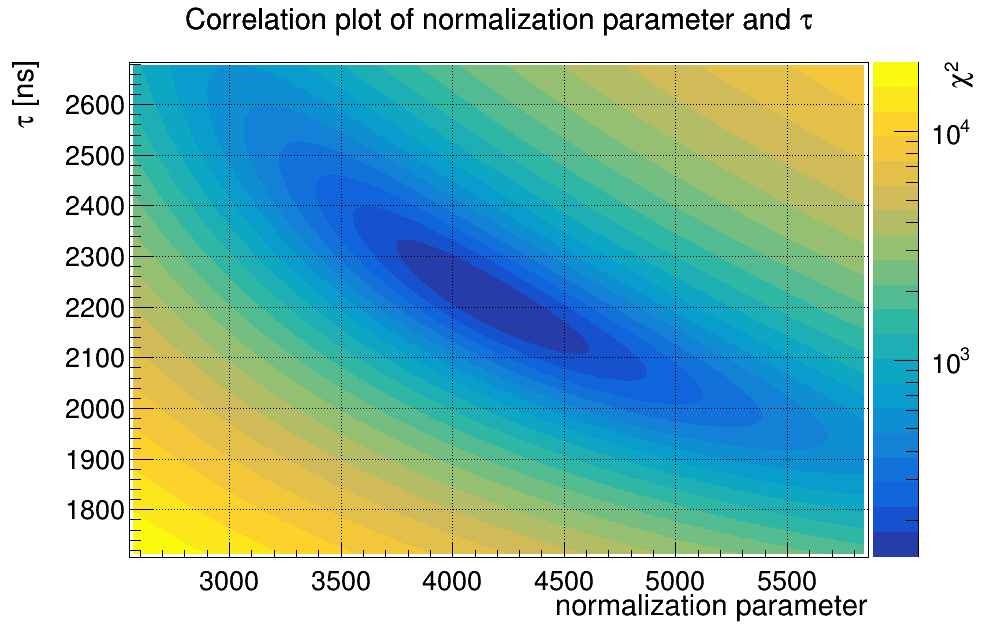
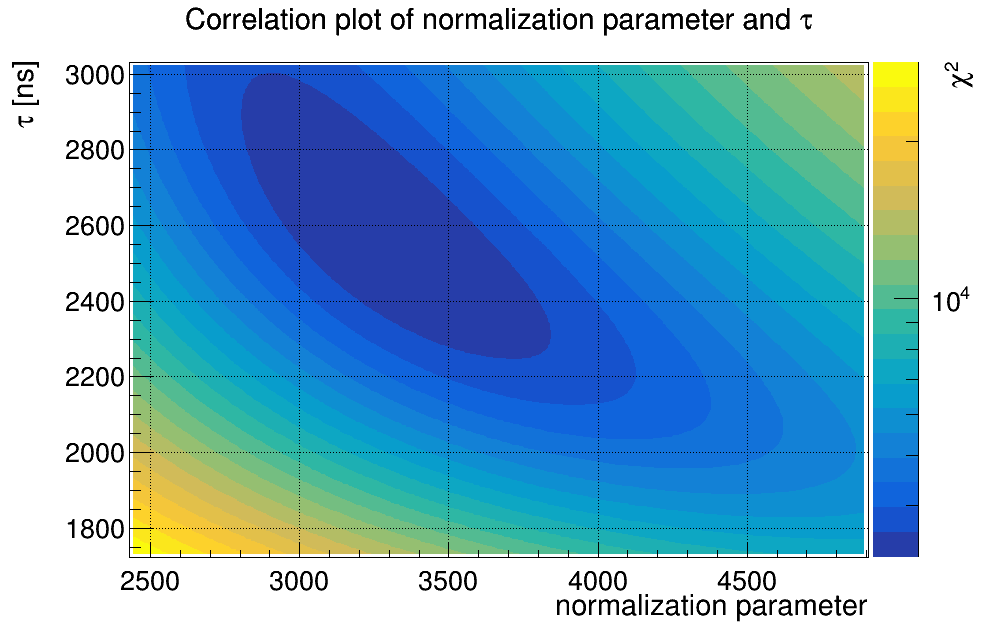
niente

diff --git a/analysis/muon_analysis/g-2/g-2_fit/g-2_fit.cc b/analysis/muon_analysis/g-2/g-2_fit/g-2_fit.cc
@@ -17,6 +17,7 @@
 #include <cstdlib>
 #include <fstream>
 #include <iostream>
+#include <math.h>
 #include <ostream>
 #include <sstream>
 #include <string>
@@ -38,10 +39,11 @@ Double_t f_fit(Double_t *x, Double_t *par)
 // ======= ANALYSIS FUNCTIONS ==========
 
 // physical quantities
-double e              = 1.602176634e-19;               // Coulomb
-double c              = 299792458;                     // m/s
-double muon_mass      = (105.6583755e6) * e / (c * c); // kg
-double magnetic_filed = 5.4e-3;                        // tesla
+double e                    = 1.602176634e-19;               // Coulomb
+double c                    = 299792458;                     // m/s
+double muon_mass            = (105.6583755e6) * e / (c * c); // kg
+double magnetic_filed       = 5.4e-3;                        // tesla
+double magnetic_filed_error = 0.1e-3;
 
 std::string G2_estimation(int bin_number_B, int dataset_initial = 0, int dataset_final = 0, int range_xmin = -1, int range_xmax = -1, int xmin_fit = -1, int xmax_fit = -1)
 {
@@ -73,7 +75,7 @@ std::string G2_estimation(int bin_number_B, int dataset_initial = 0, int dataset
   double bin_width_B = (range_xmax - range_xmin) * 1.0 / bin_B;
   TH1D  *h           = LoadData("./data", bin_B, range_xmin, range_xmax, dataset_initial, dataset_final);
   h->SetStats(kFALSE);
-  h->SetTitle("N(t)=c+N_{0}e^{-t/#tau} over dataset with B");
+  h->SetTitle("");
   h->GetXaxis()->SetTitle("time [ns]");
   h->GetYaxis()->SetTitle(GrUtil::HLabel(h, "ns").c_str());
   GrUtil::SetHTextSize(h);
@@ -114,7 +116,7 @@ std::string G2_estimation(int bin_number_B, int dataset_initial = 0, int dataset
   TH1D *h_res = GetResiduals(h, f_no_B, xmin_fit, xmax_fit);
   h_res->SetStats(kFALSE);
   h_res->GetXaxis()->SetTitle("time [ns]");
-  h_res->SetTitle("Residuals of the plot on the left");
+  h_res->SetTitle("");
   h_res->GetYaxis()->SetTitle(GrUtil::HLabel(h_res, "ns").c_str());
   h_res->GetXaxis()->SetTitleOffset(0.96);
   h_res->GetYaxis()->SetTitleOffset(1.06);
@@ -138,7 +140,7 @@ std::string G2_estimation(int bin_number_B, int dataset_initial = 0, int dataset
   gPad->SetGrid();
   gPad->SetLogy();
 
-  TH1D *h_cos = new TH1D("h_cos", "Fit data with B and N(t)=c+N_{0}e^{-t/#tau} [1+Acos(#omega_{a} t + #phi)]", bin_B, range_xmin, range_xmax);
+  TH1D *h_cos = new TH1D("h_cos", "", bin_B, range_xmin, range_xmax);
   h_cos->Add(h);
   h_cos->SetStats(kTRUE);
   h_cos->GetXaxis()->SetTitle("time [ns]");
@@ -165,7 +167,7 @@ std::string G2_estimation(int bin_number_B, int dataset_initial = 0, int dataset
   f_cos->SetParName(1, "N");
   f_cos->SetParName(2, "A");
   f_cos->SetParName(3, "#omega");
-  f_cos->SetParName(4, "#phi");
+  f_cos->SetParName(4, "#phi/#pi");
   f_cos->SetParName(5, "#tau [ns]");
 
   f_cos->SetParLimits(0, 2, 10);
@@ -183,6 +185,7 @@ std::string G2_estimation(int bin_number_B, int dataset_initial = 0, int dataset
   f_cos->SetParameter(4, 0);
 
   f_cos->FixParameter(5, life_time);
+  // f_cos->FixParameter(5, 2195);
 
   h_cos->Fit(f_cos, "LMR");
 
@@ -190,8 +193,8 @@ std::string G2_estimation(int bin_number_B, int dataset_initial = 0, int dataset
   gStyle->SetOptFit(1);
 
   TPaveStats *pv = (TPaveStats *)h_cos->GetListOfFunctions()->FindObject("stats");
-  pv->SetX1NDC(0.45);
-  pv->SetX2NDC(0.9);
+  pv->SetX1NDC(0.55);
+  pv->SetX2NDC(0.99);
   pv->SetY1NDC(0.55);
   pv->SetY2NDC(0.9);
   pv->Draw("SAME");
@@ -199,7 +202,7 @@ std::string G2_estimation(int bin_number_B, int dataset_initial = 0, int dataset
   c_cos->cd(2);
   gPad->SetGrid();
   TH1D *h_cos_res = GetResiduals(h_cos, f_cos, xmin_fit, xmax_fit);
-  h_cos_res->SetTitle("Residuals of the plot on the left");
+  h_cos_res->SetTitle("");
   h_cos_res->SetStats(kFALSE);
   h_cos_res->GetXaxis()->SetTitle("time [ns]");
   h_cos_res->GetYaxis()->SetTitle(GrUtil::HLabel(h_cos_res, "ns").c_str());
@@ -214,15 +217,16 @@ std::string G2_estimation(int bin_number_B, int dataset_initial = 0, int dataset
 
   c_cos->SaveAs("./g-2_fit/g-2_plot_fit.pdf");
   // ====== summary on obtained value =========
-  double omega_s       = f_cos->GetParameter(1) * 1e9; // 1/s
-  double omega_s_error = f_cos->GetParError(1) * 1e9;  // 1/s
+  double omega_s       = f_cos->GetParameter(3) * 1e9; // 1/s
+  double omega_s_error = f_cos->GetParError(3) * 1e9;  // 1/s
   double g_muon        = 2.0 * muon_mass * omega_s / (magnetic_filed * e);
+  double g_err         = g_muon * sqrt(pow(omega_s_error / omega_s, 2) + pow(magnetic_filed_error / magnetic_filed, 2));
   std::cout << " \n==== ANALYSIS RESULTS ====== " << std::endl;
   std::cout << "omega=" << omega_s << " s" << std::endl;
   std::cout << "muon mass=" << muon_mass << " kg" << std::endl;
   std::cout << "magnetic field=" << magnetic_filed << " T" << std::endl;
   std::cout << "electric charge=" << e << " C" << std::endl;
-  std::cout << "giromagnetic factor g: " << g_muon << std::endl;
+  std::cout << "giromagnetic factor g: " << g_muon << " +- " << g_err << std::endl;
 
   // string outout
   std::ostringstream output_string;

diff --git a/analysis/muon_analysis/muon_lifetime/src/muon_lifetime.cc b/analysis/muon_analysis/muon_lifetime/src/muon_lifetime.cc
@@ -69,7 +69,7 @@ Double_t chi_sqr(Double_t *val, Double_t *par)
   return sum;
 }
 
-void FitData(std::string filename, int xmin_fit = 2000, int xmax_fit = 16000, int total_bins = 75)
+TF1 *FitData(std::string filename, int xmin_fit = 2000, int xmax_fit = 16000, int total_bins = 75)
 {
   /*
   arguments explanation: filename, the path to the file that contains all the data
@@ -104,7 +104,7 @@ void FitData(std::string filename, int xmin_fit = 2000, int xmax_fit = 16000, in
   f->SetParNames("constant", "normalization", "lifetime [ns]");
   f->SetParameter(2, 2200);
   f->SetParLimits(0, 0, 200);
-  h->Fit(f, "RM");
+  h->Fit(f, "RMQ");
   h->Draw("E1");
 
   // graphics
@@ -146,7 +146,7 @@ void FitData(std::string filename, int xmin_fit = 2000, int xmax_fit = 16000, in
   c_chi->cd();
   c_chi->SetGrid();
   c_chi->SetLogz();
-  TF2 *f_chi = new TF2("f_chi", chi_sqr, f->GetParameter(1) - 20 * f->GetParError(1), f->GetParameter(1) + 20 * f->GetParError(1), f->GetParameter(2) - 20 * f->GetParError(2), f->GetParameter(2) + 20 * f->GetParError(2), 1);
+  TF2 *f_chi = new TF2("f_chi", chi_sqr, f->GetParameter(1) - 40 * f->GetParError(1), f->GetParameter(1) + 40 * f->GetParError(1), f->GetParameter(2) - 40 * f->GetParError(2), f->GetParameter(2) + 40 * f->GetParError(2), 1);
   f_chi->SetParameter(0, f->GetParameter(0));
   f_chi->SetNpx(100);
   f_chi->SetNpy(100);
@@ -175,5 +175,16 @@ void FitData(std::string filename, int xmin_fit = 2000, int xmax_fit = 16000, in
                                               // by point. If I use png the resolution is not enought
                                               // and the overall plot looks smoother.
 
+  return f;
+}
+
+void Fit_various_intervalas(int min_left, int max_left, int step, int max_right)
+{
+  std::ofstream out("output_intervalas.txt");
+  for (int i = min_left; i <= max_left; i = i + step)
+  {
+    TF1 *res_tmp = FitData("./data/total.dat", i, max_right, 75);
+    out << i << "-" << max_right << ":\t" << res_tmp->GetParameter(2) << "\t" << res_tmp->GetParError(2) << "\t" << res_tmp->GetChisquare() / res_tmp->GetNDF() << std::endl;
+  }
   return;
 }
